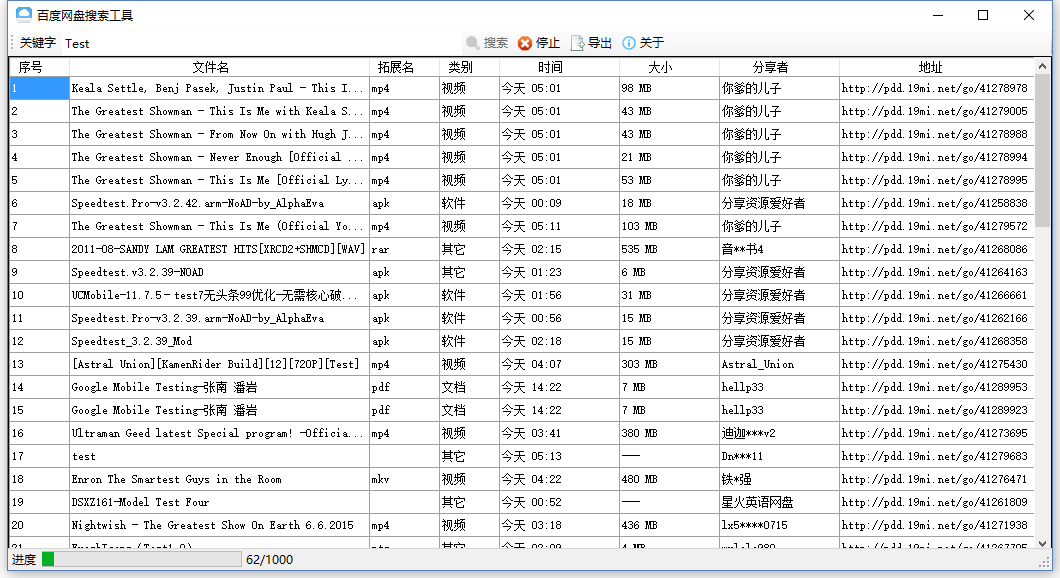
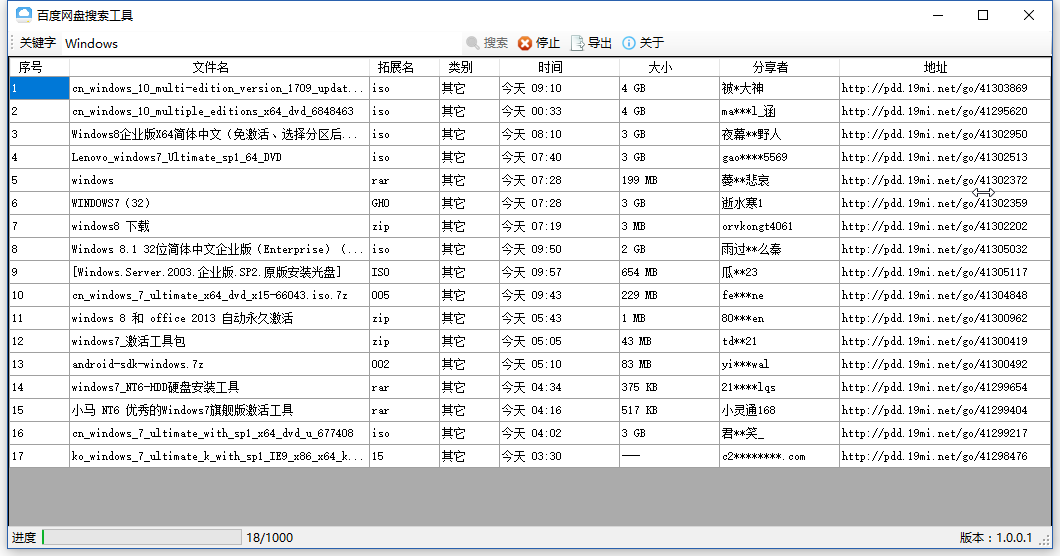
修正当排序时数据不正确的bug/增加双击打开网盘的功能

diff --git a/BaiduDiskSearcher/MainForm.Designer.cs b/BaiduDiskSearcher/MainForm.Designer.cs
@@ -60,6 +60,7 @@
             this.labelProcess = new System.Windows.Forms.ToolStripStatusLabel();
             this.progressBar = new System.Windows.Forms.ToolStripProgressBar();
             this.labelCount = new System.Windows.Forms.ToolStripStatusLabel();
+            this.labelVersion = new System.Windows.Forms.ToolStripStatusLabel();
             this.toolStrip1.SuspendLayout();
             ((System.ComponentModel.ISupportInitialize)(this.dataGridView)).BeginInit();
             this.contextMenuStrip.SuspendLayout();
@@ -160,6 +161,7 @@
             this.dataGridView.SelectionMode = System.Windows.Forms.DataGridViewSelectionMode.CellSelect;
             this.dataGridView.Size = new System.Drawing.Size(1044, 514);
             this.dataGridView.TabIndex = 1;
+            this.dataGridView.CellDoubleClick += new System.Windows.Forms.DataGridViewCellEventHandler(this.dataGridView_CellDoubleClick);
             // 
             // ColumnNumber
             // 
@@ -301,7 +303,8 @@
             this.statusStrip.Items.AddRange(new System.Windows.Forms.ToolStripItem[] {
             this.labelProcess,
             this.progressBar,
-            this.labelCount});
+            this.labelCount,
+            this.labelVersion});
             this.statusStrip.Location = new System.Drawing.Point(0, 517);
             this.statusStrip.Name = "statusStrip";
             this.statusStrip.Size = new System.Drawing.Size(1044, 22);
@@ -324,6 +327,14 @@
             this.labelCount.Name = "labelCount";
             this.labelCount.Size = new System.Drawing.Size(0, 17);
             // 
+            // labelVersion
+            // 
+            this.labelVersion.Name = "labelVersion";
+            this.labelVersion.Size = new System.Drawing.Size(795, 17);
+            this.labelVersion.Spring = true;
+            this.labelVersion.Text = "版本";
+            this.labelVersion.TextAlign = System.Drawing.ContentAlignment.MiddleRight;
+            // 
             // MainForm
             // 
             this.AutoScaleDimensions = new System.Drawing.SizeF(6F, 12F);
@@ -337,6 +348,7 @@
             this.StartPosition = System.Windows.Forms.FormStartPosition.CenterScreen;
             this.Text = "百度网盘搜索工具";
             this.FormClosing += new System.Windows.Forms.FormClosingEventHandler(this.MainForm_FormClosing);
+            this.Load += new System.EventHandler(this.MainForm_Load);
             this.toolStrip1.ResumeLayout(false);
             this.toolStrip1.PerformLayout();
             ((System.ComponentModel.ISupportInitialize)(this.dataGridView)).EndInit();
@@ -379,6 +391,7 @@
         private System.Windows.Forms.ToolStripMenuItem 复制分享者主页ToolStripMenuItem;
         private System.Windows.Forms.ToolStripSeparator toolStripMenuItem2;
         private System.Windows.Forms.ToolStripMenuItem 清空ToolStripMenuItem;
+        private System.Windows.Forms.ToolStripStatusLabel labelVersion;
     }
 }
 

diff --git a/BaiduDiskSearcher/MainForm.cs b/BaiduDiskSearcher/MainForm.cs
@@ -160,13 +160,13 @@ namespace BaiduDiskSearcher
 
         private void 复制文件名ToolStripMenuItem_Click(object sender, EventArgs e)
         {
-            if(this.dataGridView.Rows[currIndex].Cells[2].Value != null && !string.IsNullOrEmpty(this.dataGridView.Rows[currIndex].Cells[2].Value.ToString()))
+            if (list[currIndex].FileNameExt != null)
             {
-                Clipboard.SetText(this.dataGridView.Rows[currIndex].Cells[1].Value.ToString() + "." + this.dataGridView.Rows[currIndex].Cells[2].Value.ToString());
+                Clipboard.SetText(list[currIndex].FileName + "." + list[currIndex].FileNameExt);
             }
             else
             {
-                Clipboard.SetText(this.dataGridView.Rows[currIndex].Cells[1].Value.ToString());
+                Clipboard.SetText(list[currIndex].FileName);
             }
         }
 
@@ -176,7 +176,7 @@ namespace BaiduDiskSearcher
             if (this.dataGridView.CurrentRow != null && this.dataGridView.CurrentRow.Index != -1)
             {
                 contextMenuStrip.Enabled = true;
-                currIndex = this.dataGridView.CurrentRow.Index;
+                currIndex = (int)this.dataGridView.Rows[this.dataGridView.CurrentRow.Index].Cells[0].Value - 1;
             }
             else
             {
@@ -240,6 +240,19 @@ namespace BaiduDiskSearcher
             {
                 buttonSearch.PerformClick();
             }
+        }
+
+        private void dataGridView_CellDoubleClick(object sender, DataGridViewCellEventArgs e)
+        {
+            if(e.RowIndex != -1)
+            {
+                Process.Start(list[(int)this.dataGridView.Rows[e.RowIndex].Cells[0].Value - 1].Site);
+            }
+        }
+
+        private void MainForm_Load(object sender, EventArgs e)
+        {
+            labelVersion.Text = $"版本：{Assembly.GetExecutingAssembly().GetName().Version.ToString()}";
         }
     }
 }

diff --git a/BaiduDiskSearcher/Properties/AssemblyInfo.cs b/BaiduDiskSearcher/Properties/AssemblyInfo.cs
@@ -32,5 +32,5 @@ using System.Runtime.InteropServices;
 // 可以指定所有值，也可以使用以下所示的 "*" 预置版本号和修订号
 // 方法是按如下所示使用“*”: :
 // [assembly: AssemblyVersion("1.0.*")]
-[assembly: AssemblyVersion("1.0.0.0")]
-[assembly: AssemblyFileVersion("1.0.0.0")]
+[assembly: AssemblyVersion("1.0.0.1")]
+[assembly: AssemblyFileVersion("1.0.0.1")]
